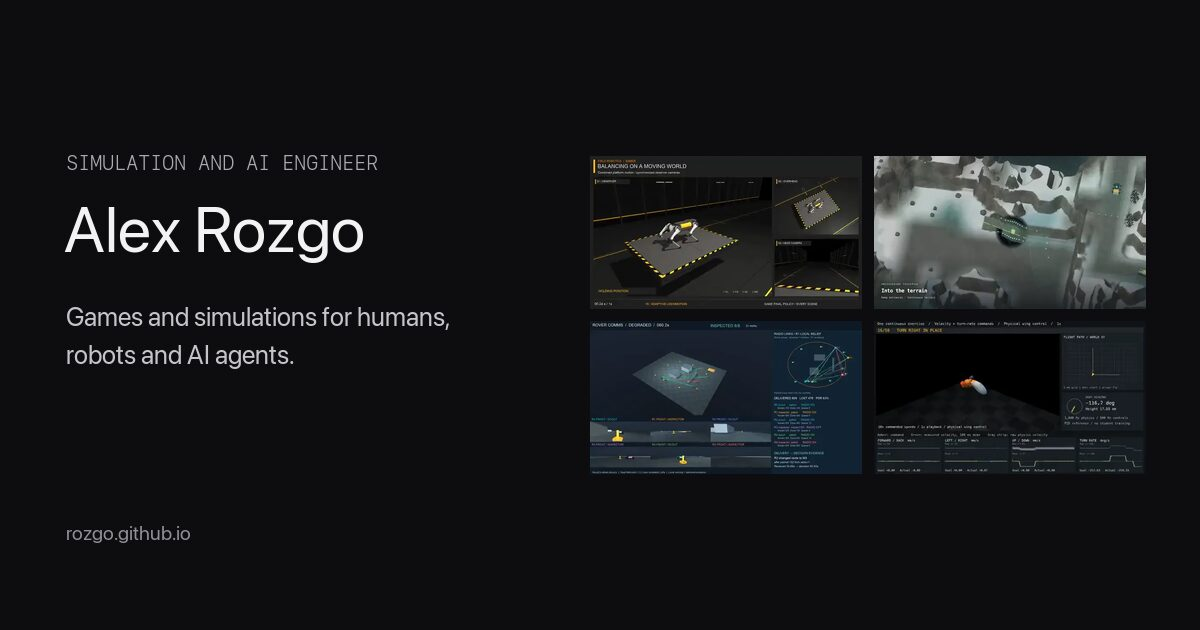
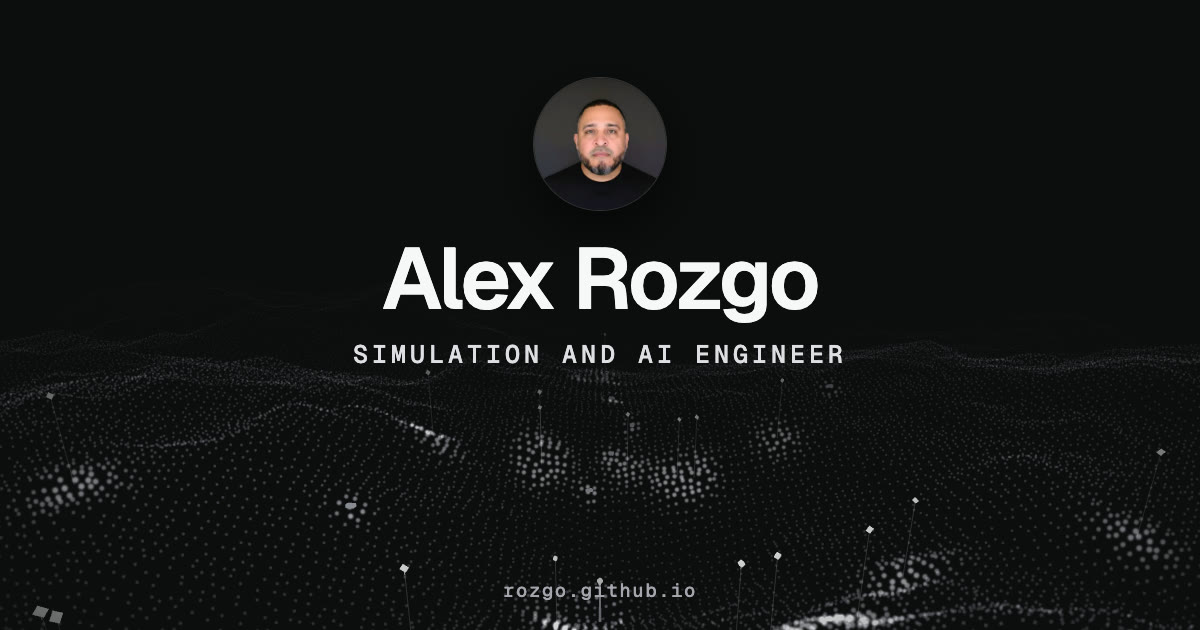
Social preview: remove Shield AI from home description; center-safe og image with image size and alt tags

diff --git a/index.html b/index.html
@@ -4,7 +4,7 @@
     <meta charset="utf-8">
     <meta name="viewport" content="width=device-width, initial-scale=1">
     <title>Alex Rozgo, simulation and AI engineer</title>
-    <meta name="description" content="Games and simulations for humans, robots and AI agents. Building worlds where humans, robots and AI agents learn, play, and evolve together. Work includes Veoveo, AlienWars Gym, Maquina, Axionomy, and the Shield AI Hivemind simulator.">
+    <meta name="description" content="I build games and simulations for humans, robots and AI agents. I spent many years making AAA games, then moved to simulation for defense and robotics.">
     <meta name="author" content="Alex Rozgo">
     <link rel="canonical" href="https://rozgo.github.io/">
     <link rel="icon" href="favicon.svg" type="image/svg+xml">
@@ -15,13 +15,17 @@
     <meta property="og:site_name" content="Alex Rozgo">
     <meta property="og:url" content="https://rozgo.github.io/">
     <meta property="og:title" content="Alex Rozgo, simulation and AI engineer">
-    <meta property="og:description" content="Games and simulations for humans, robots and AI agents. Building worlds where humans, robots and AI agents learn, play, and evolve together. Work includes Veoveo, AlienWars Gym, Maquina, Axionomy, and the Shield AI Hivemind simulator.">
+    <meta property="og:description" content="I build games and simulations for humans, robots and AI agents. I spent many years making AAA games, then moved to simulation for defense and robotics.">
     <meta property="og:image" content="https://rozgo.github.io/media/og.jpg">
+    <meta property="og:image:width" content="1200">
+    <meta property="og:image:height" content="630">
+    <meta property="og:image:alt" content="Alex Rozgo, simulation and AI engineer, above the LiDAR-style terrain from the site background">
     <meta name="twitter:card" content="summary_large_image">
     <meta name="twitter:site" content="@rozgo">
     <meta name="twitter:title" content="Alex Rozgo, simulation and AI engineer">
-    <meta name="twitter:description" content="Games and simulations for humans, robots and AI agents. Building worlds where humans, robots and AI agents learn, play, and evolve together. Work includes Veoveo, AlienWars Gym, Maquina, Axionomy, and the Shield AI Hivemind simulator.">
+    <meta name="twitter:description" content="I build games and simulations for humans, robots and AI agents. I spent many years making AAA games, then moved to simulation for defense and robotics.">
     <meta name="twitter:image" content="https://rozgo.github.io/media/og.jpg">
+    <meta name="twitter:image:alt" content="Alex Rozgo, simulation and AI engineer, above the LiDAR-style terrain from the site background">
     <link rel="preconnect" href="https://fonts.googleapis.com">
     <link rel="preconnect" href="https://fonts.gstatic.com" crossorigin>
     <link rel="stylesheet" href="https://fonts.googleapis.com/css2?family=Geist:wght@400;500;600;700&family=Geist+Mono:wght@400;500&display=swap">

diff --git a/archive/index.html b/archive/index.html
@@ -17,11 +17,15 @@
     <meta property="og:title" content="Video archive · Alex Rozgo">
     <meta property="og:description" content="All 86 videos of Alex Rozgo’s work, 2007–2026, grouped by period and filterable by topic.">
     <meta property="og:image" content="https://rozgo.github.io/media/og.jpg">
+    <meta property="og:image:width" content="1200">
+    <meta property="og:image:height" content="630">
+    <meta property="og:image:alt" content="Alex Rozgo, simulation and AI engineer, above the LiDAR-style terrain from the site background">
     <meta name="twitter:card" content="summary_large_image">
     <meta name="twitter:site" content="@rozgo">
     <meta name="twitter:title" content="Video archive · Alex Rozgo">
     <meta name="twitter:description" content="All 86 videos of Alex Rozgo’s work, 2007–2026, grouped by period and filterable by topic.">
     <meta name="twitter:image" content="https://rozgo.github.io/media/og.jpg">
+    <meta name="twitter:image:alt" content="Alex Rozgo, simulation and AI engineer, above the LiDAR-style terrain from the site background">
     <link rel="preconnect" href="https://fonts.googleapis.com">
     <link rel="preconnect" href="https://fonts.gstatic.com" crossorigin>
     <link rel="stylesheet" href="https://fonts.googleapis.com/css2?family=Geist:wght@400;500;600;700&family=Geist+Mono:wght@400;500&display=swap">
